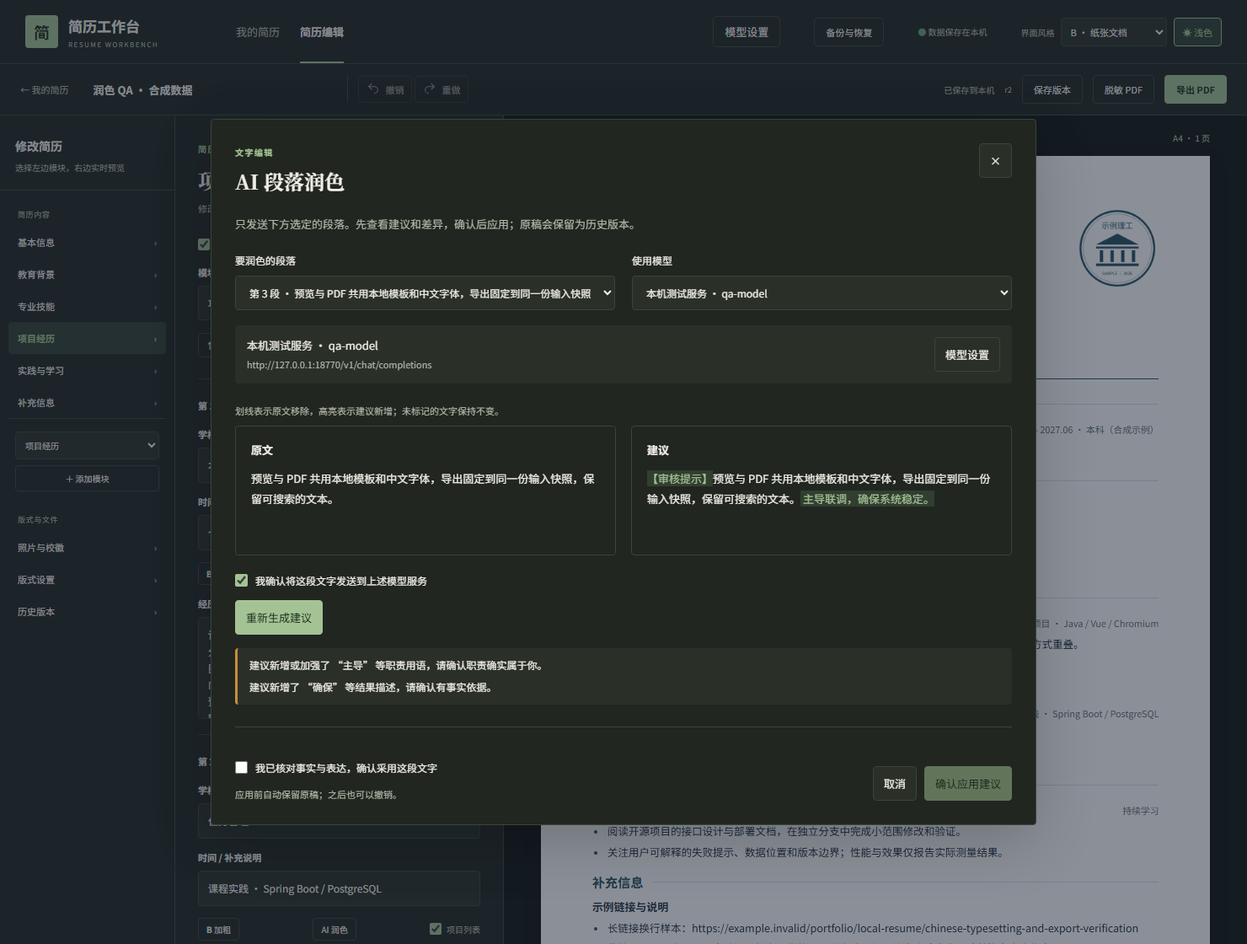
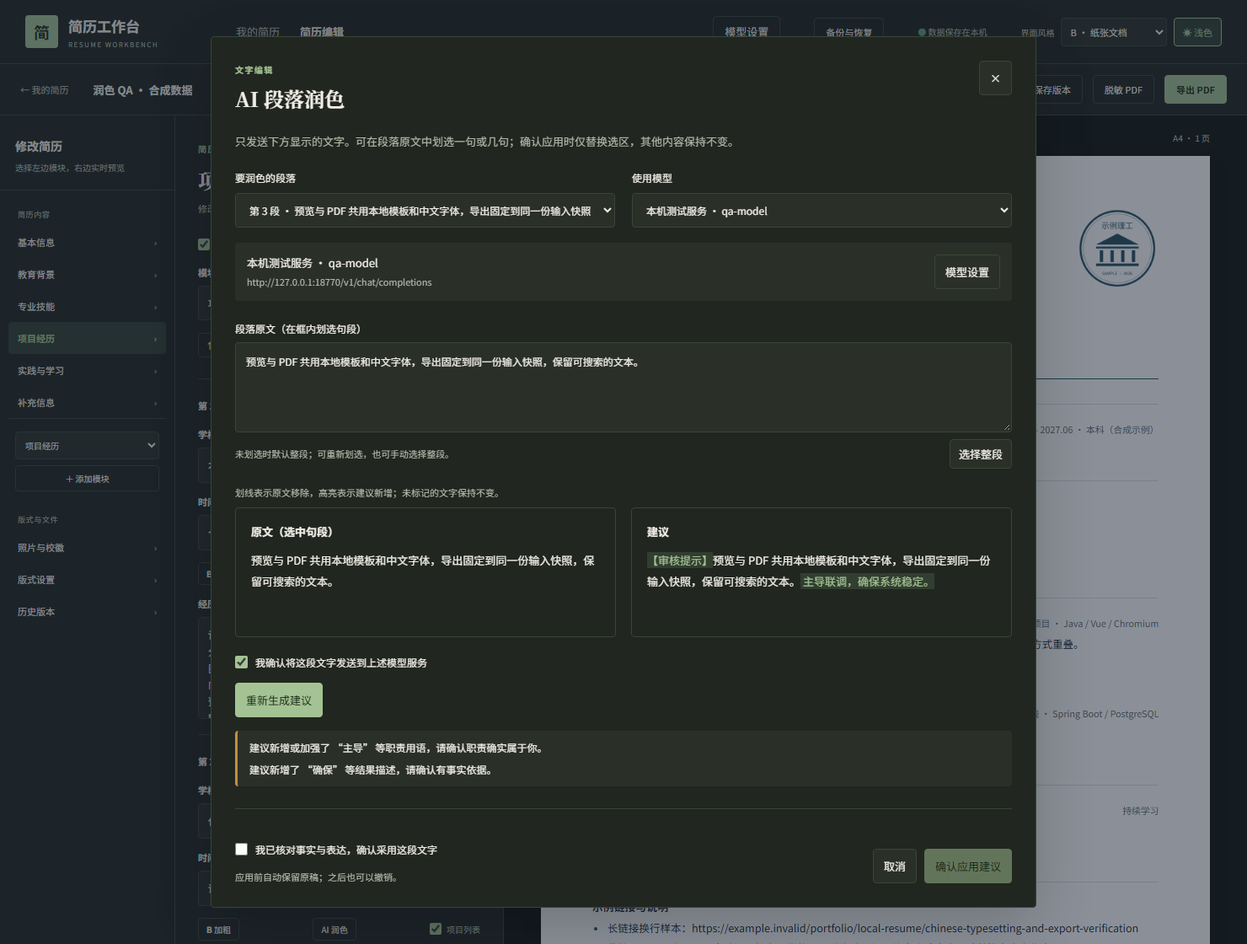
Polish selected sentences within long resume paragraphs

diff --git a/frontend/src/TextSuggestion.vue b/frontend/src/TextSuggestion.vue
@@ -7,20 +7,26 @@ import {claimWarnings} from './claimWarnings';
 const props=defineProps<{source:Resume;target:ParagraphTarget;returnFocus?:HTMLElement}>();
 const emit=defineEmits<{close:[];settings:[];applied:[Resume];applying:[boolean]}>();
 const state=ref<ModelSettings>(),profileId=ref(''),paragraph=ref(props.target.paragraph),consent=ref(false),verified=ref(false),working=ref(false),applying=ref(false),error=ref(''),suggestion=ref<Suggestion>();
-const dialog=ref<HTMLElement>(),closeButton=ref<HTMLButtonElement>();
+const dialog=ref<HTMLElement>(),closeButton=ref<HTMLButtonElement>(),sourceArea=ref<HTMLTextAreaElement>();
 const entry=computed(()=>props.source.document.content.sections.find(s=>s.id===props.target.sectionId)?.entries.find(e=>e.id===props.target.entryId));
 const original=computed(()=>entry.value?.bullets[paragraph.value]||'');
+const selectionStart=ref(props.target.selectionStart??0),selectionEnd=ref(props.target.selectionEnd??original.value.length);
+const invalidSelection=ref(!!props.target.invalidSelection);
+const selectedText=computed(()=>original.value.slice(selectionStart.value,selectionEnd.value));
 const profile=computed(()=>state.value?.profiles.find(p=>p.id===profileId.value));
 const destination=computed(()=>profile.value?profile.value.baseUrl+'/chat/completions':'');
-const difference=computed(()=>textDifference(suggestion.value?.original||original.value,suggestion.value?.replacement||original.value));
-const risk=computed(()=>claimWarnings(suggestion.value?.original||'',suggestion.value?.replacement||''));
-const canGenerate=computed(()=>state.value?.readable&&state.value.enabled&&profile.value?.hasApiKey&&original.value.trim()&&consent.value&&!working.value&&!applying.value);
+const difference=computed(()=>textDifference(suggestion.value?.selectedOriginal||selectedText.value,suggestion.value?.replacement||selectedText.value));
+const risk=computed(()=>claimWarnings(suggestion.value?.selectedOriginal||'',suggestion.value?.replacement||''));
+const canGenerate=computed(()=>state.value?.readable&&state.value.enabled&&profile.value?.hasApiKey&&selectedText.value.trim()&&!invalidSelection.value&&consent.value&&!working.value&&!applying.value);
 let disposed=false,generation=0,controller:AbortController|undefined,previousFocus:HTMLElement|undefined;
 function changed(){generation++;controller?.abort();working.value=false;suggestion.value=undefined;verified.value=false;consent.value=false;error.value='';}
-watch([profileId,paragraph],changed);
+function choose(event:Event){const area=event.target as HTMLTextAreaElement;if(area.selectionEnd>area.selectionStart){selectionStart.value=area.selectionStart;selectionEnd.value=area.selectionEnd;invalidSelection.value=false;}}
+function whole(){selectionStart.value=0;selectionEnd.value=original.value.length;invalidSelection.value=false;sourceArea.value?.setSelectionRange(0,original.value.length);}
+watch(paragraph,async()=>{selectionStart.value=0;selectionEnd.value=original.value.length;invalidSelection.value=false;await nextTick();sourceArea.value?.setSelectionRange(0,original.value.length);});
+watch([profileId,paragraph,selectionStart,selectionEnd],changed);
 async function generate(){
  if(!canGenerate.value||!state.value||!profile.value)return;const version=++generation;working.value=true;error.value='';suggestion.value=undefined;verified.value=false;controller=new AbortController();
- try{const result=await api<Suggestion>('/api/ai/suggestions',{resumeId:props.source.id,expectedRevision:props.source.revision,sectionId:props.target.sectionId,entryId:props.target.entryId,paragraph:paragraph.value,profileId:profile.value.id,settingsRevision:state.value.revision,confirmSend:true},undefined,controller.signal);if(!disposed&&version===generation)suggestion.value=result;}
+ try{const result=await api<Suggestion>('/api/ai/suggestions',{resumeId:props.source.id,expectedRevision:props.source.revision,sectionId:props.target.sectionId,entryId:props.target.entryId,paragraph:paragraph.value,selectionStart:selectionStart.value,selectionEnd:selectionEnd.value,profileId:profile.value.id,settingsRevision:state.value.revision,confirmSend:true},undefined,controller.signal);if(!disposed&&version===generation)suggestion.value=result;}
  catch(cause){if(!disposed&&version===generation)error.value=cause instanceof Error?cause.message:String(cause);}
  finally{if(!disposed&&version===generation)working.value=false;}
 }
@@ -35,19 +41,20 @@ function keys(event:KeyboardEvent){
  if(event.key==='Escape'&&!applying.value){event.preventDefault();close();}
  if(event.key==='Tab'){const controls=Array.from(dialog.value?.querySelectorAll<HTMLElement>('button:not(:disabled),select:not(:disabled),input:not(:disabled),a[href]')||[]).filter(el=>el.getClientRects().length);const first=controls[0],last=controls.at(-1);if(event.shiftKey&&document.activeElement===first){event.preventDefault();last?.focus();}else if(!event.shiftKey&&document.activeElement===last){event.preventDefault();first?.focus();}}
 }
-onMounted(async()=>{previousFocus=props.returnFocus||(document.activeElement instanceof HTMLElement?document.activeElement:undefined);window.addEventListener('keydown',keys);await nextTick();closeButton.value?.focus();try{const result=await modelSettings();if(!disposed){state.value=result;profileId.value=result.defaultId||'';}}catch(cause){if(!disposed)error.value=cause instanceof Error?cause.message:String(cause);}});
+onMounted(async()=>{previousFocus=props.returnFocus||(document.activeElement instanceof HTMLElement?document.activeElement:undefined);window.addEventListener('keydown',keys);await nextTick();const area=sourceArea.value;if(area&&selectedText.value&&selectedText.value!==original.value){area.focus();area.setSelectionRange(selectionStart.value,selectionEnd.value);}else closeButton.value?.focus();try{const result=await modelSettings();if(!disposed){state.value=result;profileId.value=result.defaultId||'';}}catch(cause){if(!disposed)error.value=cause instanceof Error?cause.message:String(cause);}});
 onUnmounted(()=>{disposed=true;controller?.abort();window.removeEventListener('keydown',keys);nextTick(()=>{if(previousFocus?.isConnected)previousFocus.focus();});});
 </script>
 <template>
  <div class="suggestion-overlay"><section ref="dialog" class="suggestion-dialog" role="dialog" aria-modal="true" aria-labelledby="suggestion-title"><header><div><span class="rw-overline">文字编辑</span><h2 id="suggestion-title">AI 段落润色</h2></div><button ref="closeButton" :disabled="applying" aria-label="关闭 AI 润色" @click="close">×</button></header>
-  <p class="suggestion-intro">只发送下方选定的段落。先查看建议和差异，确认后应用；原稿会保留为历史版本。</p>
+  <p class="suggestion-intro">只发送下方显示的文字。可在段落原文中划选一句或几句；确认应用时仅替换选区，其他内容保持不变。</p>
   <div class="suggestion-options"><label class="form-label">要润色的段落<select v-model.number="paragraph" :disabled="applying" aria-label="要润色的段落"><option v-for="(text,index) in entry?.bullets" :key="index" :value="index">第 {{index+1}} 段 · {{text.slice(0,35)||'空段落'}}</option></select></label><label class="form-label">使用模型<select v-model="profileId" :disabled="applying" aria-label="使用的润色模型"><option value="">选择已配置的模型</option><option v-for="item in state?.profiles" :key="item.id" :value="item.id">{{item.name}} · {{item.model}}</option></select></label></div>
   <div class="suggestion-destination"><span>{{profile?`${profile.name} · ${profile.model}`:'尚未选择模型'}}</span><small>{{destination}}</small><button :disabled="applying" @click="emit('settings')">模型设置</button></div>
+  <div class="suggestion-source"><label class="form-label">段落原文（在框内划选句段）<textarea ref="sourceArea" :value="original" :disabled="applying" readonly rows="4" aria-label="选取要润色的句段" @select="choose" @mouseup="choose" @keyup="choose"></textarea></label><div class="suggestion-source-tools"><small>未划选时默认整段；可重新划选，也可手动选择整段。</small><button :disabled="applying" @click="whole">选择整段</button></div><p v-if="invalidSelection" class="suggestion-warning">一次只能选择同一段落中的文字。请在上方重新划选，或选择整段。</p></div>
   <p v-if="state&&!state.enabled" class="suggestion-warning">文字润色尚未启用，请在模型设置中开启。</p><p v-if="profile&&!profile.hasApiKey" class="suggestion-warning">此模型尚未配置 API Key。</p><p v-if="state&&!state.readable" class="suggestion-warning">模型设置无法读取，已暂停调用。</p>
   <p v-if="suggestion" class="suggestion-diff-key">划线表示原文移除，高亮表示建议新增；未标记的文字保持不变。</p>
-  <div class="suggestion-comparison"><article><h3>{{suggestion?'原文':'将发送的文字'}}</h3><p v-if="suggestion" class="suggestion-text" data-testid="ai-original-text"><template v-for="(part,index) in difference.before" :key="index"><del v-if="part.changed">{{part.text}}</del><span v-else>{{part.text}}</span></template></p><p v-else class="suggestion-text" data-testid="ai-sent-text">{{original||'请先填写这一段内容。'}}</p></article><article><h3>建议</h3><p v-if="suggestion" class="suggestion-text" data-testid="ai-result-text"><template v-for="(part,index) in difference.after" :key="index"><mark v-if="part.changed">{{part.text}}</mark><span v-else>{{part.text}}</span></template></p><p v-else class="suggestion-placeholder">{{working?'正在生成建议…':'点击生成后，在这里查看改写结果。'}}</p></article></div>
+  <div class="suggestion-comparison"><article><h3>{{suggestion?'原文（选中句段）':'将发送的文字'}}</h3><p v-if="suggestion" class="suggestion-text" data-testid="ai-original-text"><template v-for="(part,index) in difference.before" :key="index"><del v-if="part.changed">{{part.text}}</del><span v-else>{{part.text}}</span></template></p><p v-else class="suggestion-text" data-testid="ai-sent-text">{{selectedText||'请在段落原文中选择要润色的文字。'}}</p></article><article><h3>建议</h3><p v-if="suggestion" class="suggestion-text" data-testid="ai-result-text"><template v-for="(part,index) in difference.after" :key="index"><mark v-if="part.changed">{{part.text}}</mark><span v-else>{{part.text}}</span></template></p><p v-else class="suggestion-placeholder">{{working?'正在生成建议…':'点击生成后，在这里查看改写结果。'}}</p></article></div>
   <label class="suggestion-confirm"><input v-model="consent" type="checkbox" :disabled="applying||!state?.readable||!state.enabled||!profile?.hasApiKey" aria-label="确认发送选定段落">我确认将这段文字发送到上述模型服务</label><button class="rw-primary" :disabled="!canGenerate" @click="generate">{{working?'正在生成…':suggestion?'重新生成建议':'生成润色建议'}}</button>
   <div v-if="suggestion&&(suggestion.addedNumbers||risk.roles.length||risk.outcomes.length)" class="suggestion-fact-risks" role="note" aria-label="建议中需要核对的事实变化"><p v-if="risk.roles.length" data-testid="ai-role-risk">建议新增或加强了 {{risk.roles.map(term=>`“${term}”`).join('、')}} 等职责用语，请确认职责确实属于你。</p><p v-if="risk.outcomes.length" data-testid="ai-outcome-risk">建议新增了 {{risk.outcomes.map(term=>`“${term}”`).join('、')}} 等结果描述，请确认有事实依据。</p><p v-if="suggestion.addedNumbers">建议中出现原文没有的数字，请逐项核对。</p></div><p v-if="error" class="suggestion-error" role="alert">{{error}}</p>
-  <footer><div><label v-if="suggestion" class="suggestion-confirm"><input v-model="verified" type="checkbox" :disabled="applying" aria-label="确认建议事实与表达">我已核对事实与表达，确认采用这段文字</label><p>应用前自动保留原稿；之后也可以撤销。</p></div><div class="suggestion-actions"><button :disabled="applying" @click="close">取消</button><button class="rw-primary" :disabled="!suggestion||!verified||suggestion.original===suggestion.replacement||applying" @click="apply">{{applying?'正在应用…':'确认应用建议'}}</button></div></footer>
+  <footer><div><label v-if="suggestion" class="suggestion-confirm"><input v-model="verified" type="checkbox" :disabled="applying" aria-label="确认建议事实与表达">我已核对事实与表达，确认采用这段文字</label><p>应用前自动保留原稿；之后也可以撤销。</p></div><div class="suggestion-actions"><button :disabled="applying" @click="close">取消</button><button class="rw-primary" :disabled="!suggestion||!verified||suggestion.selectedOriginal===suggestion.replacement||applying" @click="apply">{{applying?'正在应用…':'确认应用建议'}}</button></div></footer>
  </section></div>
 </template>

diff --git a/frontend/tests/models.spec.ts b/frontend/tests/models.spec.ts
@@ -67,6 +67,61 @@ test('only a confirmed selected paragraph is sent; apply is versioned and undoab
  await page.getByRole('button',{name:'撤销',exact:true}).click();await expect.poll(async()=>(await(await request.get('/api/resumes/'+source.id)).json()).document).toEqual(source.document);
 });
 
+test('selected sentence is the only model input and only that range is applied',async({page,request})=>{
+ await config(request);let source=await resume(request);
+ const section=source.document.content.sections.find((item:any)=>item.type==='project');
+ const entry=section.entries[0];entry.bullets[0]+=' '+'在课程练习中整理接口文档，与同组成员核对字段，并记录联调问题。'.repeat(15);entry.bullets.push('对照段落保持不变。');
+ source=await(await request.put('/api/resumes/'+source.id,{headers,data:{title:source.title,document:source.document,expectedRevision:source.revision,mutationId:crypto.randomUUID()}})).json();
+ const first=source.document.content.sections.find((item:any)=>item.id===section.id).entries[0].bullets[0];
+ expect(first.length).toBeGreaterThan(500);expect(first.length).toBeLessThan(780);
+ const phrase='核对字段',start=first.indexOf(phrase,Math.floor(first.length/2)),end=start+phrase.length,selected=first.slice(start,end);
+ expect(start).toBeGreaterThan(0);
+ await page.goto(`/?view=editor&resume=${source.id}`);await expect(page.getByTestId('preview-status')).toContainText('预览已更新');
+ await page.getByTestId('nav-project').click();
+ const area=page.getByRole('textbox',{name:'条目正文'}).first();
+ await area.evaluate((node:HTMLTextAreaElement,range)=>{node.focus();node.setSelectionRange(range.start,range.end);},{start,end});
+ await page.getByRole('button',{name:'AI 段落润色',exact:true}).first().click();
+ const dialog=page.getByRole('dialog',{name:'AI 段落润色',exact:true});
+ const picker=dialog.getByLabel('选取要润色的句段');
+ await expect(picker).toBeFocused();
+ expect(await picker.evaluate((node:HTMLTextAreaElement)=>node.selectionStart)).toBe(start);
+ expect(await picker.evaluate((node:HTMLTextAreaElement)=>node.selectionEnd)).toBe(end);
+ expect(await picker.evaluate((node:HTMLTextAreaElement)=>node.scrollTop)).toBeGreaterThan(0);
+ await expect(dialog.getByTestId('ai-sent-text')).toHaveText(selected);
+ await expect(dialog.getByRole('button',{name:'生成润色建议'})).toBeDisabled();
+ await dialog.getByLabel('确认发送选定段落').check();
+ const response=page.waitForResponse(r=>new URL(r.url()).pathname==='/api/ai/suggestions'&&r.request().method()==='POST');
+ await dialog.getByRole('button',{name:'生成润色建议'}).click();
+ const sent=await response,proposal=await sent.json();
+ expect(proposal.original).toBe(first);expect(proposal.selectedOriginal).toBe(selected);
+ expect(proposal.selectionStart).toBe(start);expect(proposal.selectionEnd).toBe(end);
+ expect(sent.request().postData()).not.toContain('PRIVATE-');
+ await expect(dialog.getByTestId('ai-original-text')).toHaveText(selected);
+ await fs.mkdir(path.join(root,'output'),{recursive:true});await page.screenshot({path:path.join(root,'output/ai-selected-sentence.png'),animations:'disabled'});
+ await dialog.getByLabel('确认建议事实与表达').check();await dialog.getByRole('button',{name:'确认应用建议'}).click();
+ await expect(dialog).toHaveCount(0);
+ const applied=await(await request.get('/api/resumes/'+source.id)).json();
+ const changed=applied.document.content.sections.find((item:any)=>item.id===section.id).entries[0].bullets;
+ expect(changed[0]).toBe(first.slice(0,start)+proposal.replacement+first.slice(end));
+ expect(changed.slice(1)).toEqual(source.document.content.sections.find((item:any)=>item.id===section.id).entries[0].bullets.slice(1));
+ expect((await(await request.get(`/api/resumes/${source.id}/versions`)).json()).some((version:any)=>version.label.startsWith('AI 应用前自动保留'))).toBe(true);
+ await page.getByRole('button',{name:'撤销',exact:true}).click();
+ await expect.poll(async()=>(await(await request.get('/api/resumes/'+source.id)).json()).document).toEqual(source.document);
+
+ const restored=page.getByRole('textbox',{name:'条目正文'}).first(),text=await restored.inputValue(),lineEnd=text.indexOf('\n');
+ await restored.evaluate((node:HTMLTextAreaElement,index)=>{node.focus();node.setSelectionRange(index-3,index+4);},lineEnd);
+ await page.getByRole('button',{name:'AI 段落润色',exact:true}).first().click();
+ const cross=page.getByRole('dialog',{name:'AI 段落润色',exact:true});
+ await expect(cross.getByText(/一次只能选择同一段落中的文字/)).toBeVisible();
+ await cross.getByLabel('确认发送选定段落').check();
+ await expect(cross.getByRole('button',{name:'生成润色建议'})).toBeDisabled();
+ await cross.getByLabel('选取要润色的句段').evaluate((node:HTMLTextAreaElement)=>{node.focus();node.setSelectionRange(1,6);node.dispatchEvent(new Event('select',{bubbles:true}));});
+ await expect(cross.getByTestId('ai-sent-text')).toHaveText(first.slice(1,6));
+ await expect(cross.getByLabel('确认发送选定段落')).not.toBeChecked();
+ await expect(cross.getByText(/一次只能选择同一段落中的文字/)).toHaveCount(0);
+ await cross.getByRole('button',{name:'取消',exact:true}).click();
+});
+
 test('failed generation and stale source cannot overwrite saved text',async({page,request})=>{
  const profile=await config(request,'qa-error');const source=await resume(request);const dialog=await open(page,source.id);await dialog.getByLabel('确认发送选定段落').check();await dialog.getByRole('button',{name:'生成润色建议'}).click();await expect(dialog.getByRole('alert')).toContainText('MODEL_AUTH_FAILED');expect(await(await request.get('/api/resumes/'+source.id)).json()).toEqual(source);await dialog.getByRole('button',{name:'取消',exact:true}).click();
  const current=await state(request);await request.put('/api/models/profiles/'+profile.id,{headers,data:{expectedRevision:current.revision,name:'修复后的服务',provider:'compatible',baseUrl:'http://127.0.0.1:18770/v1',model:'qa-model',apiKey:'',clearKey:false}});

diff --git a/frontend/src/models.css b/frontend/src/models.css
@@ -2,5 +2,6 @@
 @media(max-width:760px){.model-page{padding:26px 18px}.model-page-heading{align-items:flex-start}.model-page h1{font-size:27px}.model-grid,.model-fields{grid-template-columns:minmax(0,1fr)}.model-wide{grid-column:auto}.model-page-toolbar{flex-wrap:wrap;gap:13px}.model-page-toolbar span{order:3;flex-basis:100%}.model-page-toolbar>button{margin-left:auto}.model-card,.model-edit{padding:20px;min-width:0}.model-card-heading>div{min-width:0;overflow-wrap:anywhere}.model-card footer{gap:7px}.model-card dd{max-width:70%;min-width:0}}
 .rw-app .model-open.active{color:var(--ui-accent);background:var(--ui-tint)}.suggestion-overlay{position:fixed;inset:0;z-index:70;display:flex;align-items:center;justify-content:center;background:#17223180;padding:24px;color:var(--ui-ink);font:13px ResumeSans,Arial,sans-serif}.suggestion-dialog{width:min(980px,100%);max-height:calc(100vh - 48px);overflow:auto;padding:28px;background:var(--ui-surface);border:1px solid var(--ui-line);border-radius:var(--ui-radius);box-shadow:0 20px 70px #0003}.suggestion-dialog *{box-sizing:border-box}.suggestion-dialog button,.suggestion-dialog select{font:inherit;color:var(--ui-ink);background:var(--ui-soft);border:1px solid var(--ui-line);border-radius:var(--ui-radius);padding:10px 12px;cursor:pointer}.suggestion-dialog button:disabled{opacity:.5;cursor:not-allowed}.suggestion-dialog .rw-primary{color:var(--ui-accent-ink);background:var(--ui-accent);border-color:var(--ui-accent)}.suggestion-dialog select{width:100%;min-width:0;cursor:pointer}.suggestion-dialog header{display:flex;justify-content:space-between;align-items:flex-start;gap:20px}.suggestion-dialog h2{font:700 24px var(--ui-heading);margin:8px 0 0}.suggestion-intro{color:var(--ui-muted);line-height:1.8;margin:22px 0}.suggestion-options{display:grid;grid-template-columns:1fr 1fr;gap:20px}.suggestion-options .form-label{display:grid;gap:10px;font-size:12px}.suggestion-destination{display:grid;grid-template-columns:1fr auto;gap:5px 16px;margin:18px 0 24px;padding:14px;background:var(--ui-soft);border-radius:var(--ui-radius)}.suggestion-destination small{grid-column:1;color:var(--ui-muted);overflow-wrap:anywhere}.suggestion-destination button{grid-column:2;grid-row:1/3;align-self:center}.suggestion-comparison{display:grid;grid-template-columns:1fr 1fr;gap:18px}.suggestion-comparison article{border:1px solid var(--ui-line);border-radius:var(--ui-radius);padding:18px;min-height:154px}.suggestion-comparison h3{margin:0 0 13px;font-size:13px}.suggestion-text{line-height:1.9;white-space:pre-wrap;overflow-wrap:anywhere;margin:0}.suggestion-text del{background:#c85b4e24;text-decoration:line-through}.suggestion-text mark{background:var(--ui-tint);color:var(--ui-accent)}.suggestion-placeholder{color:var(--ui-muted);line-height:1.8}.suggestion-confirm{display:flex;align-items:flex-start;gap:9px;margin:20px 0 14px;line-height:1.6;font-size:12px}.suggestion-confirm input{width:15px;height:15px;flex:0 0 15px;margin:2px 0 0;accent-color:var(--ui-accent)}.suggestion-dialog footer{display:flex;align-items:flex-end;justify-content:space-between;gap:18px;margin-top:26px;padding-top:18px;border-top:1px solid var(--ui-line)}.suggestion-dialog footer p{color:var(--ui-muted);font-size:11px;margin:8px 0 0}.suggestion-actions{display:flex;gap:9px;flex-shrink:0}.suggestion-warning{color:var(--ui-accent);font-size:12px;line-height:1.8}.suggestion-error{color:#c84c45;line-height:1.8}.suggestion-dialog button:focus-visible,.suggestion-dialog select:focus-visible,.suggestion-dialog input:focus-visible{outline:2px solid var(--ui-accent);outline-offset:2px}
 .suggestion-diff-key{font-size:11px;color:var(--ui-muted);margin:0 0 10px}.suggestion-fact-risks{margin-top:16px;padding:10px 14px;border-left:3px solid #c98d3e;border-radius:var(--ui-radius);background:var(--ui-soft);color:var(--ui-ink);font-size:12px;line-height:1.7}.suggestion-fact-risks p{margin:0}.suggestion-fact-risks p+p{margin-top:6px}
+.suggestion-source{margin:0 0 20px}.suggestion-source .form-label{display:grid;gap:8px;font-size:12px}.suggestion-source textarea{width:100%;min-height:88px;padding:12px;border:1px solid var(--ui-line);border-radius:var(--ui-radius);background:var(--ui-soft);color:var(--ui-ink);font:inherit;line-height:1.7;resize:vertical;user-select:text}.suggestion-source textarea::selection{background:var(--ui-accent);color:var(--ui-accent-ink)}.suggestion-source-tools{display:flex;align-items:center;justify-content:space-between;gap:12px;flex-wrap:wrap;margin-top:8px}.suggestion-source-tools small{color:var(--ui-muted);line-height:1.6}.suggestion-source-tools button{padding:7px 10px}.suggestion-dialog textarea:focus-visible{outline:2px solid var(--ui-accent);outline-offset:2px}
 @media(max-width:720px){.suggestion-overlay{padding:12px}.suggestion-dialog{padding:20px;max-height:calc(100vh - 24px)}.suggestion-options,.suggestion-comparison{grid-template-columns:1fr}.suggestion-dialog footer{align-items:stretch;flex-direction:column}.suggestion-actions{justify-content:flex-end}.suggestion-destination{grid-template-columns:1fr}.suggestion-destination button{grid-column:1;grid-row:auto;justify-self:start}.model-open{font-size:11px!important;padding:7px 9px!important}}
 @media(max-width:590px){.rw-header-inner .rw-brand{flex:0 0 100%;min-height:38px}.rw-header-inner{gap:9px}.rw-header-inner .appearance-controls{margin-left:auto}.rw-header-inner .backup-open{font-size:11px;padding:7px 9px}}

diff --git a/frontend/src/FocusedSection.vue b/frontend/src/FocusedSection.vue
@@ -10,7 +10,19 @@ function bold(event:MouseEvent,item:Entry){
  const start=area.selectionStart,end=area.selectionEnd,text=area.value;
  item.bullets=(text.slice(0,start)+'**'+(text.slice(start,end)||'重点')+'**'+text.slice(end)).split('\n');area.focus();
 }
-function polish(event:MouseEvent,item:Entry){const area=(event.currentTarget as HTMLElement).closest('.entry-fields')!.querySelector('textarea')!;const paragraph=Math.min(item.bullets.length-1,area.value.slice(0,area.selectionStart).split('\n').length-1);emit('polish',{sectionId:props.section.id,entryId:item.id,paragraph:Math.max(0,paragraph)});}
+function polish(event:MouseEvent,item:Entry){
+ const area=(event.currentTarget as HTMLElement).closest('.entry-fields')!.querySelector('textarea')!;
+ const start=area.selectionStart,end=area.selectionEnd,text=area.value;
+ const paragraph=Math.max(0,Math.min(item.bullets.length-1,text.slice(0,start).split('\n').length-1));
+ const lineStart=text.lastIndexOf('\n',start-1)+1;
+ const nextLine=text.indexOf('\n',lineStart),lineEnd=nextLine<0?text.length:nextLine;
+ const invalidSelection=end>lineEnd;
+ const whole=item.bullets[paragraph]||'';
+ emit('polish',{sectionId:props.section.id,entryId:item.id,paragraph,
+  selectionStart:invalidSelection||start===end?0:start-lineStart,
+  selectionEnd:invalidSelection?0:start===end?whole.length:end-lineStart,
+  invalidSelection});
+}
 </script>
 <template>
  <div class="section-form" :data-testid="'section-'+section.type">
@@ -21,7 +33,7 @@ function polish(event:MouseEvent,item:Entry){const area=(event.currentTarget as 
    <div class="entry-heading"><strong>第 {{index+1}} 条</strong><button type="button" class="quiet-danger" aria-label="删除条目" @click="section.entries.splice(index,1)">删除</button></div>
    <label class="form-label">学校 / 公司 / 项目<input v-model="item.title" maxlength="80" aria-label="条目标题"></label>
    <label class="form-label">时间 / 补充说明<input v-model="item.meta" maxlength="120" aria-label="条目说明"></label>
-   <div class="text-toolbar"><button type="button" aria-label="加粗所选文字" @click="bold($event,item)"><b>B</b> 加粗</button><button type="button" aria-label="AI 段落润色" @click="polish($event,item)">AI 润色</button><label><input v-model="item.bulleted" type="checkbox" aria-label="使用项目列表">项目列表</label></div>
+   <div class="text-toolbar"><button type="button" aria-label="加粗所选文字" @click="bold($event,item)"><b>B</b> 加粗</button><button type="button" aria-label="AI 段落润色" title="可先划选一句或几句" @click="polish($event,item)">AI 润色</button><label><input v-model="item.bulleted" type="checkbox" aria-label="使用项目列表">项目列表</label></div>
    <label class="form-label">经历描述 / 正文<textarea :value="item.bullets.join('\n')" rows="5" aria-label="条目正文" placeholder="每行一条；用 **文字** 标记重点" @input="item.bullets=($event.target as HTMLTextAreaElement).value.split('\n')"></textarea></label>
   </div>
   <button type="button" class="add-entry" :disabled="section.entries.length>=15" @click="section.entries.push(entry())">＋ 添加条目</button>

diff --git a/frontend/src/modelApi.ts b/frontend/src/modelApi.ts
@@ -2,6 +2,6 @@ import {api} from './api';
 export type ModelPreset={id:string;name:string;baseUrl:string;model:string};
 export type ModelProfile={id:string;name:string;provider:string;baseUrl:string;model:string;hasApiKey:boolean};
 export type ModelSettings={revision:number;enabled:boolean;defaultId:string|null;readable:boolean;profiles:ModelProfile[];presets:ModelPreset[]};
-export type ParagraphTarget={sectionId:string;entryId:string;paragraph:number};
-export type Suggestion={id:string;resumeId:string;revision:number;sectionId:string;entryId:string;paragraph:number;original:string;replacement:string;profileName:string;provider:string;model:string;destination:string;expiresAt:string;addedNumbers:boolean};
+export type ParagraphTarget={sectionId:string;entryId:string;paragraph:number;selectionStart?:number;selectionEnd?:number;invalidSelection?:boolean};
+export type Suggestion={id:string;resumeId:string;revision:number;sectionId:string;entryId:string;paragraph:number;original:string;selectionStart:number;selectionEnd:number;selectedOriginal:string;replacement:string;profileName:string;provider:string;model:string;destination:string;expiresAt:string;addedNumbers:boolean};
 export const modelSettings=()=>api<ModelSettings>('/api/models');

diff --git a/src/main/java/dev/localresume/TextSuggestions.java b/src/main/java/dev/localresume/TextSuggestions.java
@@ -13,11 +13,18 @@ import java.util.regex.Pattern;
 public class TextSuggestions {
     public record Request(@NotNull UUID resumeId,@Min(1) long expectedRevision,
                           @NotBlank @Size(max=50) String sectionId,@NotBlank @Size(max=50) String entryId,
-                          @Min(0) @Max(29) int paragraph,@NotBlank String profileId,@Min(0) long settingsRevision,
-                          @AssertTrue boolean confirmSend) {}
+                          @Min(0) @Max(29) int paragraph,@Min(0) Integer selectionStart,@Min(0) Integer selectionEnd,
+                          @NotBlank String profileId,@Min(0) long settingsRevision,@AssertTrue boolean confirmSend) {
+        public Request(UUID resumeId,long expectedRevision,String sectionId,String entryId,int paragraph,
+                       String profileId,long settingsRevision,boolean confirmSend){
+            this(resumeId,expectedRevision,sectionId,entryId,paragraph,null,null,profileId,settingsRevision,confirmSend);
+        }
+    }
     public record Suggestion(UUID id,UUID resumeId,long revision,String sectionId,String entryId,int paragraph,
-                             String original,String replacement,String profileName,String provider,String model,
+                             String original,int selectionStart,int selectionEnd,String selectedOriginal,String replacement,
+                             String profileName,String provider,String model,
                              String destination,Instant expiresAt,boolean addedNumbers) {}
+    private record Selection(int start,int end,String text) {}
     private final ResumeService resumes;
     private final ModelSettings settings;
     private final ModelGateway gateway;
@@ -34,12 +41,13 @@ public class TextSuggestions {
             var profile=settings.selected(input.profileId(),input.settingsRevision(),true);
             var source=resumes.savedRevision(input.resumeId(),input.expectedRevision());
             String original=ResumeService.paragraph(source.document(),input.sectionId(),input.entryId(),input.paragraph());
-            if(original.isBlank()||original.length()>800)throw new ApiException("AI_TEXT_INVALID","请选择非空且不超过 800 个字符的段落。",422);
-            String replacement=gateway.rewrite(profile,settings.credential(profile),original);
+            var selection=selection(original,input.selectionStart(),input.selectionEnd());
+            String replacement=gateway.rewrite(profile,settings.credential(profile),selection.text());
             resumes.savedRevision(input.resumeId(),input.expectedRevision());
             settings.selected(input.profileId(),input.settingsRevision(),true);
-            var result=new Suggestion(UUID.randomUUID(),source.id(),source.revision(),input.sectionId(),input.entryId(),input.paragraph(),original,replacement,
-                profile.name(),profile.provider(),profile.model(),profile.baseUrl()+"/chat/completions",clock.instant().plusSeconds(600),addsNumbers(original,replacement));
+            var result=new Suggestion(UUID.randomUUID(),source.id(),source.revision(),input.sectionId(),input.entryId(),input.paragraph(),
+                original,selection.start(),selection.end(),selection.text(),replacement,profile.name(),profile.provider(),profile.model(),
+                profile.baseUrl()+"/chat/completions",clock.instant().plusSeconds(600),addsNumbers(selection.text(),replacement));
             suggestions.entrySet().removeIf(entry->!entry.getValue().expiresAt().isAfter(clock.instant()));
             if(suggestions.size()>=32){var oldest=suggestions.values().stream().min(Comparator.comparing(Suggestion::expiresAt)).orElseThrow();suggestions.remove(oldest.id());}
             suggestions.put(result.id(),result);return result;
@@ -50,7 +58,20 @@ public class TextSuggestions {
         var value=suggestions.get(id);
         if(value==null||!value.expiresAt().isAfter(clock.instant())){suggestions.remove(id);throw new ApiException("AI_SUGGESTION_EXPIRED","建议已过期，请重新生成。",410);}
         if(!value.resumeId().equals(resumeId)||value.revision()!=revision)throw new ApiException("AI_SOURCE_CHANGED","建议不属于当前简历或修订，请重新生成。",409);
-        return resumes.applyParagraph(resumeId,revision,value.sectionId(),value.entryId(),value.paragraph(),value.original(),value.replacement(),id);
+        String updated=value.original().substring(0,value.selectionStart())+value.replacement()+value.original().substring(value.selectionEnd());
+        if(updated.length()>800)throw new ApiException("AI_RESULT_TOO_LONG","建议应用后将超过单段 800 字上限，请缩短选区或手动编辑。",422);
+        return resumes.applyParagraph(resumeId,revision,value.sectionId(),value.entryId(),value.paragraph(),value.original(),updated,id);
+    }
+    private static Selection selection(String source,Integer start,Integer end){
+        if(start==null&&end==null){start=0;end=source.length();}
+        if(start==null||end==null||start<0||end<=start||end>source.length()||splitsPair(source,start)||splitsPair(source,end))
+            throw new ApiException("AI_SELECTION_INVALID","请在同一段落内选择连续、完整的文字。",422);
+        String text=source.substring(start,end);
+        if(text.isBlank()||text.length()>800)throw new ApiException("AI_TEXT_INVALID","请选择非空且不超过 800 个字符的文字。",422);
+        return new Selection(start,end,text);
+    }
+    private static boolean splitsPair(String text,int offset){
+        return offset>0&&offset<text.length()&&Character.isHighSurrogate(text.charAt(offset-1))&&Character.isLowSurrogate(text.charAt(offset));
     }
     static boolean addsNumbers(String original,String proposed){var pattern=Pattern.compile("[0-9]+(?:[.,][0-9]+)?%?");var prior=new HashSet<String>();pattern.matcher(original).results().forEach(match->prior.add(match.group()));return pattern.matcher(proposed).results().anyMatch(match->!prior.contains(match.group()));}
 }

diff --git a/src/test/java/dev/localresume/TextSuggestionsTest.java b/src/test/java/dev/localresume/TextSuggestionsTest.java
@@ -5,6 +5,8 @@ import org.junit.jupiter.api.*;
 import org.junit.jupiter.api.io.TempDir;
 import java.nio.file.Path;
 import java.time.*;
+import java.util.ArrayList;
+import java.util.List;
 import java.util.UUID;
 import static org.assertj.core.api.Assertions.*;
 import static org.mockito.Mockito.*;
@@ -44,4 +46,52 @@ class TextSuggestionsTest {
         assertThatThrownBy(()->service.create(request(true))).isInstanceOfSatisfying(ApiException.class,e->assertThat(e.code).isEqualTo("MODEL_SETTINGS_CHANGED"));
     }
     @Test void newNumericClaimsAreFlaggedForReview(){assertThat(TextSuggestions.addsNumbers("完成接口改造","完成接口改造，提升 30% 性能")).isTrue();assertThat(TextSuggestions.addsNumbers("处理 30% 请求","处理 30% 请求并说明设计")).isFalse();}
+    @Test void selectionSendsOnlySavedSliceAndAppliesInsideOriginalParagraph(){
+        var base=request(true);String paragraph=ResumeService.paragraph(source.document(),base.sectionId(),base.entryId(),0);
+        int start=3,end=16;String selected=paragraph.substring(start,end),replacement="简洁表达";
+        when(gateway.rewrite(any(),any(),eq(selected))).thenReturn(replacement);
+        var input=new TextSuggestions.Request(source.id(),1,base.sectionId(),base.entryId(),0,start,end,models.defaultId(),models.revision(),true);
+        var suggestion=service.create(input);
+        assertThat(suggestion.original()).isEqualTo(paragraph);
+        assertThat(suggestion.selectedOriginal()).isEqualTo(selected);
+        assertThat(suggestion.selectionStart()).isEqualTo(start);
+        assertThat(suggestion.selectionEnd()).isEqualTo(end);
+        verify(gateway).rewrite(any(),eq("secret-canary"),eq(selected));
+        service.apply(suggestion.id(),source.id(),1,true);
+        verify(resumes).applyParagraph(eq(source.id()),eq(1L),eq(base.sectionId()),eq(base.entryId()),eq(0),eq(paragraph),
+            eq(paragraph.substring(0,start)+replacement+paragraph.substring(end)),eq(suggestion.id()));
+    }
+    @Test void invalidAndPartialRangesAreRejectedBeforeCallingAProvider(){
+        var base=request(true);String paragraph=ResumeService.paragraph(source.document(),base.sectionId(),base.entryId(),0);
+        for(var pair:java.util.List.of(new Integer[]{0,0},new Integer[]{1,paragraph.length()+1},new Integer[]{1,null})){
+            var input=new TextSuggestions.Request(source.id(),1,base.sectionId(),base.entryId(),0,pair[0],pair[1],models.defaultId(),models.revision(),true);
+            assertThatThrownBy(()->service.create(input)).isInstanceOfSatisfying(ApiException.class,e->assertThat(e.code).isEqualTo("AI_SELECTION_INVALID"));
+        }
+        verifyNoInteractions(gateway);
+    }
+    @Test void applyingSelectionCannotOverrunParagraphLimit(){
+        var base=request(true);String paragraph=ResumeService.paragraph(source.document(),base.sectionId(),base.entryId(),0);
+        when(gateway.rewrite(any(),any(),any())).thenReturn("文".repeat(800));
+        var input=new TextSuggestions.Request(source.id(),1,base.sectionId(),base.entryId(),0,0,1,models.defaultId(),models.revision(),true);
+        var suggestion=service.create(input);
+        assertThatThrownBy(()->service.apply(suggestion.id(),source.id(),1,true))
+            .isInstanceOfSatisfying(ApiException.class,e->assertThat(e.code).isEqualTo("AI_RESULT_TOO_LONG"));
+        verify(resumes,never()).applyParagraph(any(),anyLong(),any(),any(),anyInt(),any(),any(),any());
+        assertThat(paragraph).isNotBlank();
+    }
+    @Test void selectedOffsetsCannotSplitAnEmojiSurrogatePair(){
+        var doc=source.document();var content=doc.content();var sections=new ArrayList<>(content.sections());
+        var section=sections.getFirst();var entries=new ArrayList<>(section.entries());var entry=entries.getFirst();
+        entries.set(0,new ResumeDocument.Entry(entry.id(),entry.title(),entry.meta(),entry.bulleted(),List.of("🚀参与联调")));
+        sections.set(0,new ResumeDocument.Section(section.id(),section.type(),section.title(),section.visible(),section.pageBreakBefore(),entries));
+        var changed=new ResumeDocument(doc.schemaVersion(),new ResumeDocument.Content(content.name(),content.headline(),content.email(),content.phone(),content.location(),sections),doc.layout());
+        source=new ResumeService.Resume(source.id(),source.title(),changed,1,source.lastMutationId(),source.updatedAt());
+        when(resumes.savedRevision(source.id(),1)).thenReturn(source);
+        var base=request(true);
+        var split=new TextSuggestions.Request(source.id(),1,base.sectionId(),base.entryId(),0,1,3,models.defaultId(),models.revision(),true);
+        assertThatThrownBy(()->service.create(split)).isInstanceOfSatisfying(ApiException.class,e->assertThat(e.code).isEqualTo("AI_SELECTION_INVALID"));
+        var valid=new TextSuggestions.Request(source.id(),1,base.sectionId(),base.entryId(),0,2,4,models.defaultId(),models.revision(),true);
+        assertThat(service.create(valid).selectedOriginal()).isEqualTo("参与");
+        verify(gateway).rewrite(any(),eq("secret-canary"),eq("参与"));
+    }
 }

diff --git a/docs/model-settings.md b/docs/model-settings.md
@@ -5,13 +5,13 @@
 1. 在页面顶部打开「模型设置」，点击「添加模型」。
 2. 选择 DashScope、DeepSeek、GLM 或其他兼容服务，填写配置名称、Base URL、文字模型和 API Key。预设地址可以按服务商所在区域调整，模型名称以账号实际可用的模型为准。
 3. 保存后点击「测试连接」，成功后设为默认文字模型。测试只发送固定 OK 文字，可能产生少量调用费用。
-4. 开启「启用文字润色」。在经历或项目条目的正文旁点击「AI 润色」，选择要处理的一段。
-5. 核对显示的模型、接收地址与文字，勾选确认发送，再生成建议。只发送这一段，姓名、联系方式、照片、校徽和整份简历不会被自动附带。
-6. 查看原文与建议差异，核对事实和数字，确认后应用。应用前会自动保留历史版本，也可直接撤销。取消、模型失败或过期建议都不会修改原文。
+4. 开启「启用文字润色」。在经历或项目条目的正文里划选一句或几句，再点击「AI 润色」；未划选时默认处理整段。弹窗中也可重新划选或改选整段。
+5. 核对显示的模型、接收地址与「将发送的文字」，勾选确认发送，再生成建议。跨段选区不能发送，需在同一段落内重新选取。姓名、联系方式、照片、校徽和整份简历不会被自动附带。
+6. 查看原文与建议差异，核对事实和数字，确认后应用。只替换所选句段，段落其他文字保留；应用前会自动保留历史版本，也可直接撤销。取消、模型失败或过期建议都不会修改原文。
 
 对比视图会分别标出各处移除和新增的词句。建议出现新的「负责」「主导」或「确保」「提升」等职责、结果用语时会提醒核对；提醒只依据文字变化，不能代替事实判断。
 
-文字润色默认关闭，简历编辑、保存、图片和 PDF 继续独立运行。模型生成不会自行保存；生成期间原文或模型设置在其他页面改变时，本次结果会被拒绝，应用前也会再次核对原文修订。明显过长的扩写或过度删减会被拒绝并保留原文，长段落可拆开处理；其他建议仍可能改变事实，新增数字会另行提示，用户需核对职责和结果。
+文字润色默认关闭，简历编辑、保存、图片和 PDF 继续独立运行。模型生成不会自行保存；生成期间原文或模型设置在其他页面改变时，本次结果会被拒绝，应用前也会再次核对原文修订与选区。明显过长的扩写或过度删减会被拒绝并保留原文，长段落可逐句处理；其他建议仍可能改变事实，新增数字会另行提示，用户需核对职责和结果。
 
 ![模型配置管理，使用合成测试配置](model-settings.png)
 
@@ -20,6 +20,8 @@
 ![查看原文与润色建议，使用合成测试文字](ai-paragraph-review.png)
 
 ![深色模式下的职责与结果用语提醒，使用合成测试文字](ai-review-risks-dark.png)
+
+![在合成长段落中只润色选中的句段](ai-selected-sentence.png)
 
 模型配置属于当前本机实例，保存在应用数据卷的 `model-settings` 目录。API Key 使用 AES-GCM 加密，解密密钥为该目录下的 `master.key`；接口和列表不回显明文，浏览器不持久保存密钥。工作区 ZIP 不包含模型配置或密钥，在另一台设备恢复简历后需重新配置模型。迁移整个应用数据卷时，请妥善保管包含密钥的目录。
 

diff --git a/docs/releasing.md b/docs/releasing.md
@@ -1,6 +1,6 @@
 # 验证与发布流程
 
-GitHub Actions 在 `main`、PR 和手动运行时检查 12 项前端逻辑测试与构建、78 项 Java 测试、可执行 JAR / 许可证清单、Docker 镜像、31 项浏览器测试、离线使用、全新实例备份恢复、中文 PDF 和容器重建持久化。自动备份检查覆盖调度、去重、历史恢复、跨实例策略边界和重建保留；脱敏检查覆盖四模板、图片字节移除、原稿保留、过期预览和下载重试。测试只在合成数据的独立 PostgreSQL schema / Compose 项目执行。
+GitHub Actions 在 `main`、PR 和手动运行时检查 12 项前端逻辑测试与构建、82 项 Java 测试、可执行 JAR / 许可证清单、Docker 镜像、32 项浏览器测试、离线使用、全新实例备份恢复、中文 PDF 和容器重建持久化。自动备份检查覆盖调度、去重、历史恢复、跨实例策略边界和重建保留；脱敏检查覆盖四模板、图片字节移除、原稿保留、过期预览和下载重试。测试只在合成数据的独立 PostgreSQL schema / Compose 项目执行。
 
 日常迭代通过功能分支、PR、CI 和合并同步 GitHub，变更集中记录在 CHANGELOG 的 Unreleased 区域。小功能完成后不自动创建版本标签或 Release，也不把 Compose 默认镜像改成尚未发布的版本。累积到较完整的里程碑，再统一确定版本、更新部署配置和发布镜像。
 

diff --git a/CHANGELOG.md b/CHANGELOG.md
@@ -2,6 +2,7 @@
 
 ## Unreleased
 
+- 长段落可只选中同一段内的句段进行润色；发送前显示准确选区，应用时只替换该处，跨段、无效选区和超长结果会被拒绝。
 - 润色建议按词句分别标出多处修改；新增或加强的职责、结果用语会提示人工核对，适配两种界面风格与深色模式。
 - 收紧 AI 段落润色的事实约束；明显过长的扩写或过度删减直接拒绝，保留原文并提示拆段或手动编辑。
 - 模型设置页面：DashScope、DeepSeek、GLM 和其他兼容服务，支持添加、编辑、测试、默认切换和删除；密钥仅保存在本机服务端。

diff --git a/README.md b/README.md
@@ -18,7 +18,7 @@
 
 示例简历使用奶龙素材，创建后可替换为自己的内容和图片。
 
-开发版新增可选的[模型设置与段落润色](docs/model-settings.md)，支持 DashScope、DeepSeek、GLM 等服务。当前正式镜像仍为 0.6.0，开发版可从源码构建运行。
+开发版新增可选的[模型设置与段落润色](docs/model-settings.md)，支持 DashScope、DeepSeek、GLM 等服务，并可先划选句段再润色。当前正式镜像仍为 0.6.0，开发版可从源码构建运行。
 
 ## 安装与启动
 
